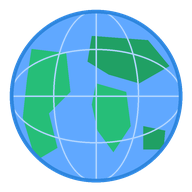
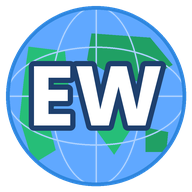
Add files via upload

diff --git a/index.html b/index.html
@@ -4,12 +4,12 @@
 <meta charset="UTF-8">
 <meta name="viewport" content="width=device-width, initial-scale=1.0, maximum-scale=1.0, user-scalable=no, viewport-fit=cover">
 <meta name="theme-color" content="#54a0ff">
-<title>世界の国チャンピオン</title>
+<title>EarthWISE 世界の国チャンピオン</title>
 <link rel="manifest" href="manifest.json">
 <link rel="apple-touch-icon" href="icons/icon-192.png">
 <meta name="apple-mobile-web-app-capable" content="yes">
 <meta name="apple-mobile-web-app-status-bar-style" content="default">
-<meta name="apple-mobile-web-app-title" content="世界の国チャンピオン">
+<meta name="apple-mobile-web-app-title" content="EarthWISE 世界">
 <style>
   :root{
     --bg1:#e7f3ff; --bg2:#eafbf0;
@@ -40,6 +40,9 @@
 
   /* Title */
   .title-wrap{text-align:center;margin:18px 0 8px;}
+  .brand{display:inline-block;font-weight:900;font-size:17px;letter-spacing:.04em;color:var(--blue-d);
+    background:#fff;padding:6px 16px;border-radius:999px;box-shadow:0 3px 10px rgba(0,0,0,.08);margin-bottom:4px;}
+  .brand-jp{font-size:11px;font-weight:800;color:#8091ad;letter-spacing:.02em;}
   .title{
     font-size:clamp(28px,8.5vw,42px);font-weight:900;line-height:1.15;letter-spacing:.02em;
     background:linear-gradient(90deg,var(--blue),var(--green-d),var(--purple));
@@ -200,6 +203,7 @@
   <!-- START : 大陸えらび -->
   <section id="start" class="screen">
     <div class="title-wrap">
+      <div class="brand">🌏 EarthWISE <span class="brand-jp">アースワイズ</span></div>
       <span class="map-emoji">🌍</span>
       <div class="title">世界の国<br>チャンピオン</div>
       <div class="sub">首都・名物・輸出品の三択クイズ！<br>地図でズームして場所もおぼえよう</div>
@@ -276,7 +280,7 @@
         <button class="big-btn green" id="homeBtn">大陸をえらぶ 🏠</button>
       </div>
     </div>
-    <div class="footer">世界の国チャンピオン</div>
+    <div class="footer">EarthWISE 世界の国チャンピオン</div>
   </section>
 
 </div>

diff --git a/sw.js b/sw.js
@@ -1,5 +1,5 @@
 // 世界の国チャンピオン Service Worker
-const CACHE = "world-champ-v1";
+const CACHE = "world-champ-v2";
 const ASSETS = [
   "./",
   "./index.html",
